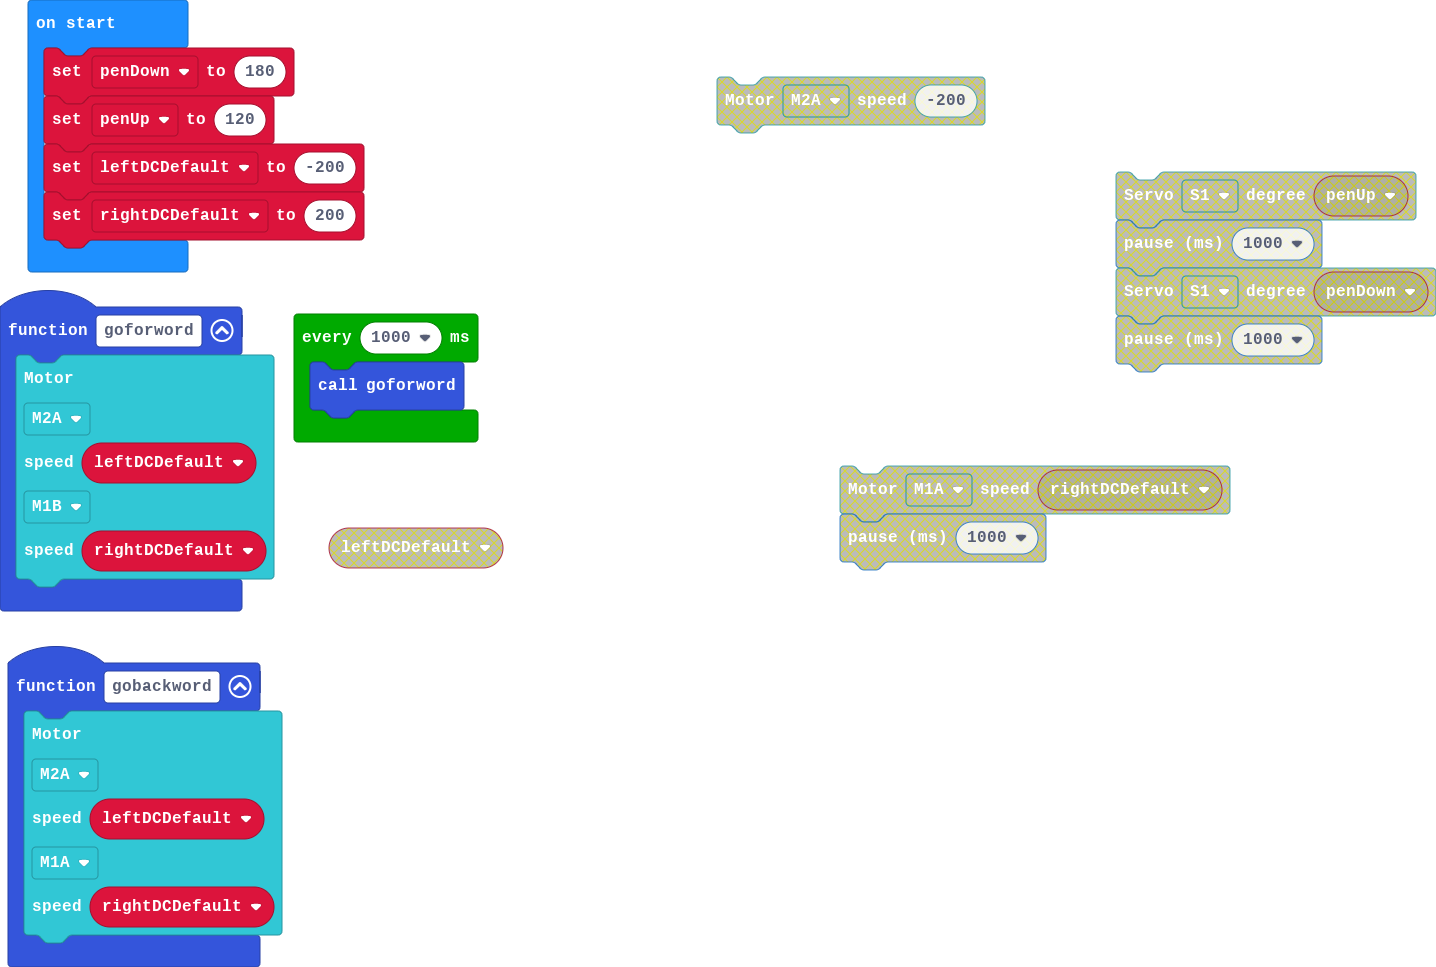
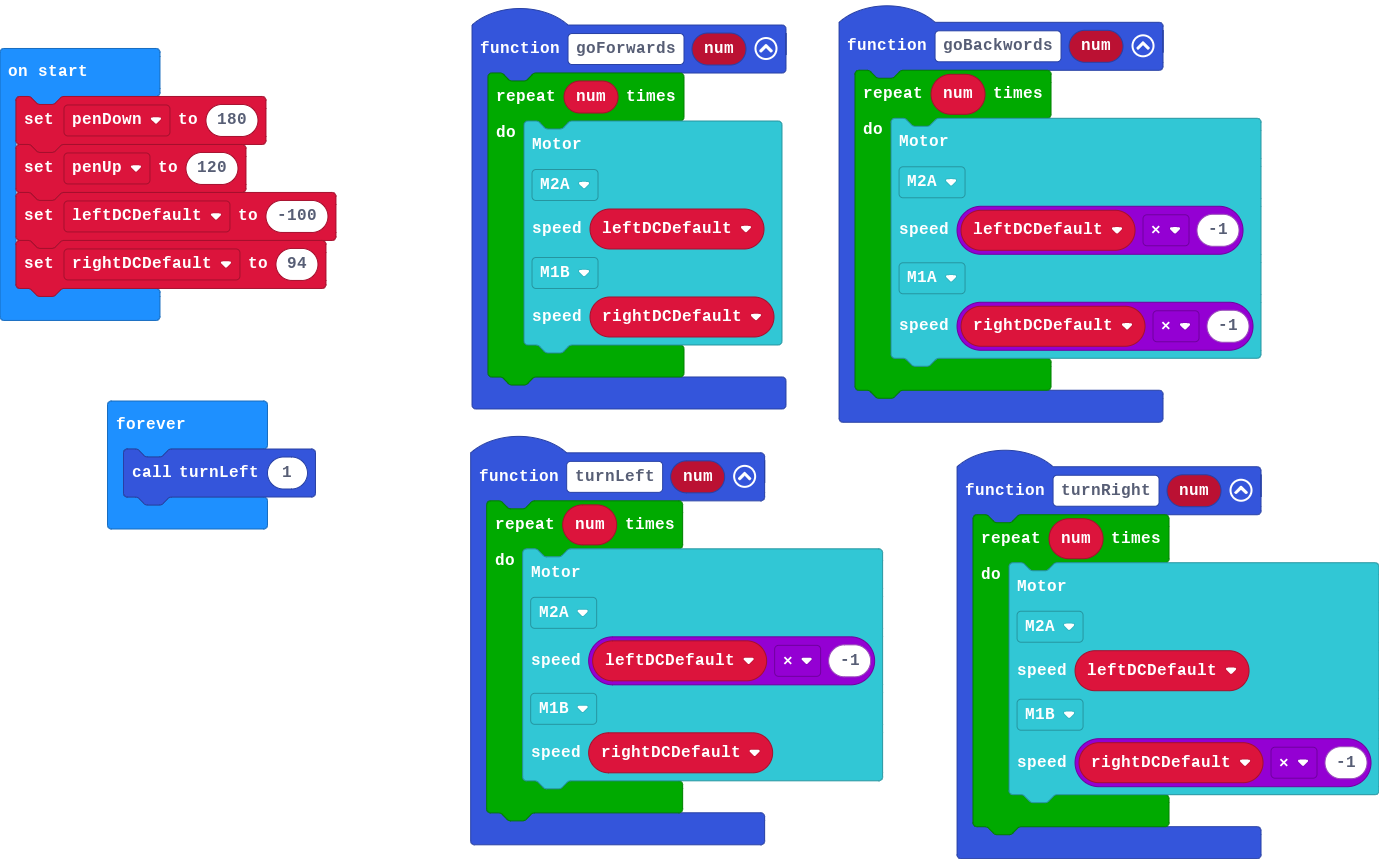
Update pxt.json, main.blocks, main.ts

diff --git a/main.ts b/main.ts
@@ -1,25 +1,49 @@
-function gobackword () {
-    robotbit.MotorRunDual(
-    robotbit.Motors.M2A,
-    leftDCDefault,
-    robotbit.Motors.M1A,
-    rightDCDefault
-    )
+function turnLeft (num: number) {
+    for (let index = 0; index < num; index++) {
+        robotbit.MotorRunDual(
+        robotbit.Motors.M2A,
+        leftDCDefault * -1,
+        robotbit.Motors.M1B,
+        rightDCDefault
+        )
+    }
 }
-function goforword () {
-    robotbit.MotorRunDual(
-    robotbit.Motors.M2A,
-    leftDCDefault,
-    robotbit.Motors.M1B,
-    rightDCDefault
-    )
+function goBackwords (num: number) {
+    for (let index = 0; index < num; index++) {
+        robotbit.MotorRunDual(
+        robotbit.Motors.M2A,
+        leftDCDefault * -1,
+        robotbit.Motors.M1A,
+        rightDCDefault * -1
+        )
+    }
+}
+function goForwards (num: number) {
+    for (let index = 0; index < num; index++) {
+        robotbit.MotorRunDual(
+        robotbit.Motors.M2A,
+        leftDCDefault,
+        robotbit.Motors.M1B,
+        rightDCDefault
+        )
+    }
+}
+function turnRight (num: number) {
+    for (let index = 0; index < num; index++) {
+        robotbit.MotorRunDual(
+        robotbit.Motors.M2A,
+        leftDCDefault,
+        robotbit.Motors.M1B,
+        rightDCDefault * -1
+        )
+    }
 }
 let rightDCDefault = 0
 let leftDCDefault = 0
 let penDown = 180
 let penUp = 120
-leftDCDefault = -200
-rightDCDefault = 200
-loops.everyInterval(1000, function () {
-    goforword()
+leftDCDefault = -100
+rightDCDefault = 94
+basic.forever(function () {
+    turnLeft(1)
 })
